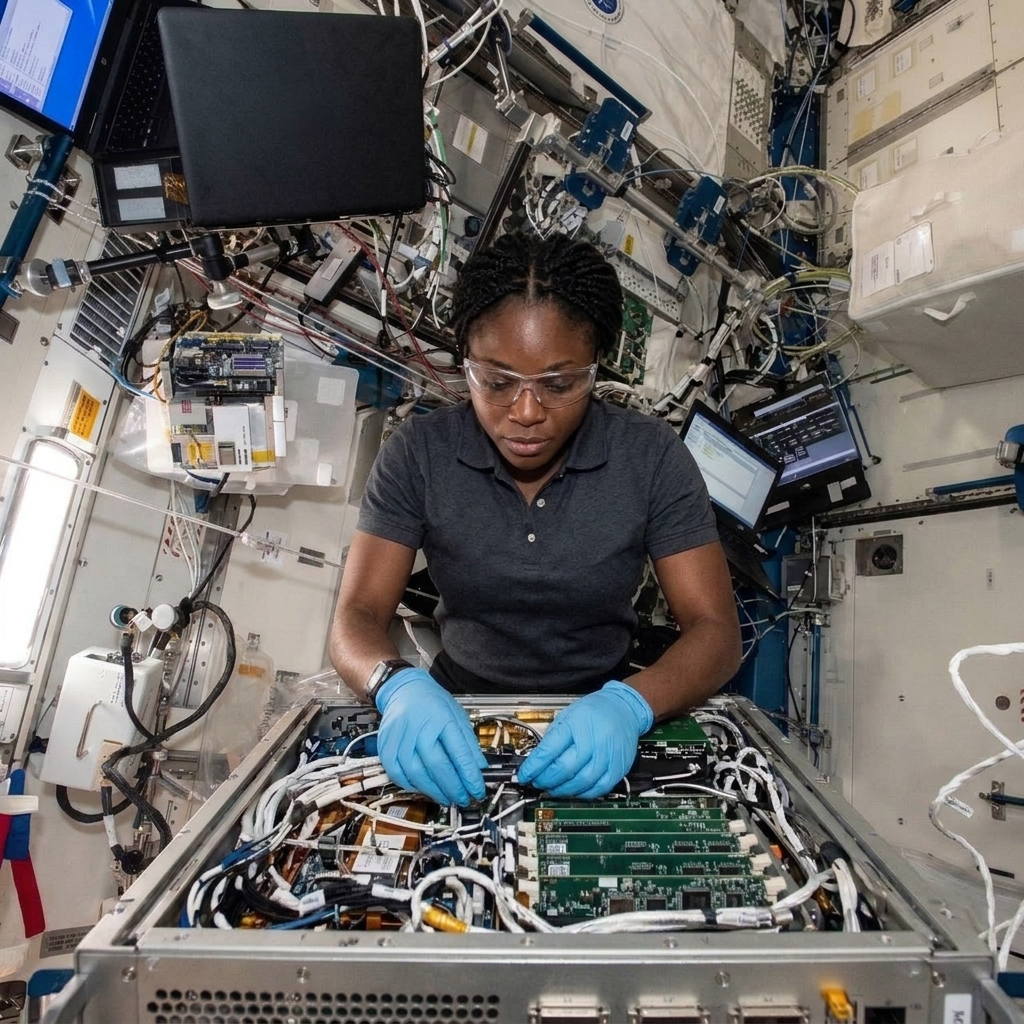
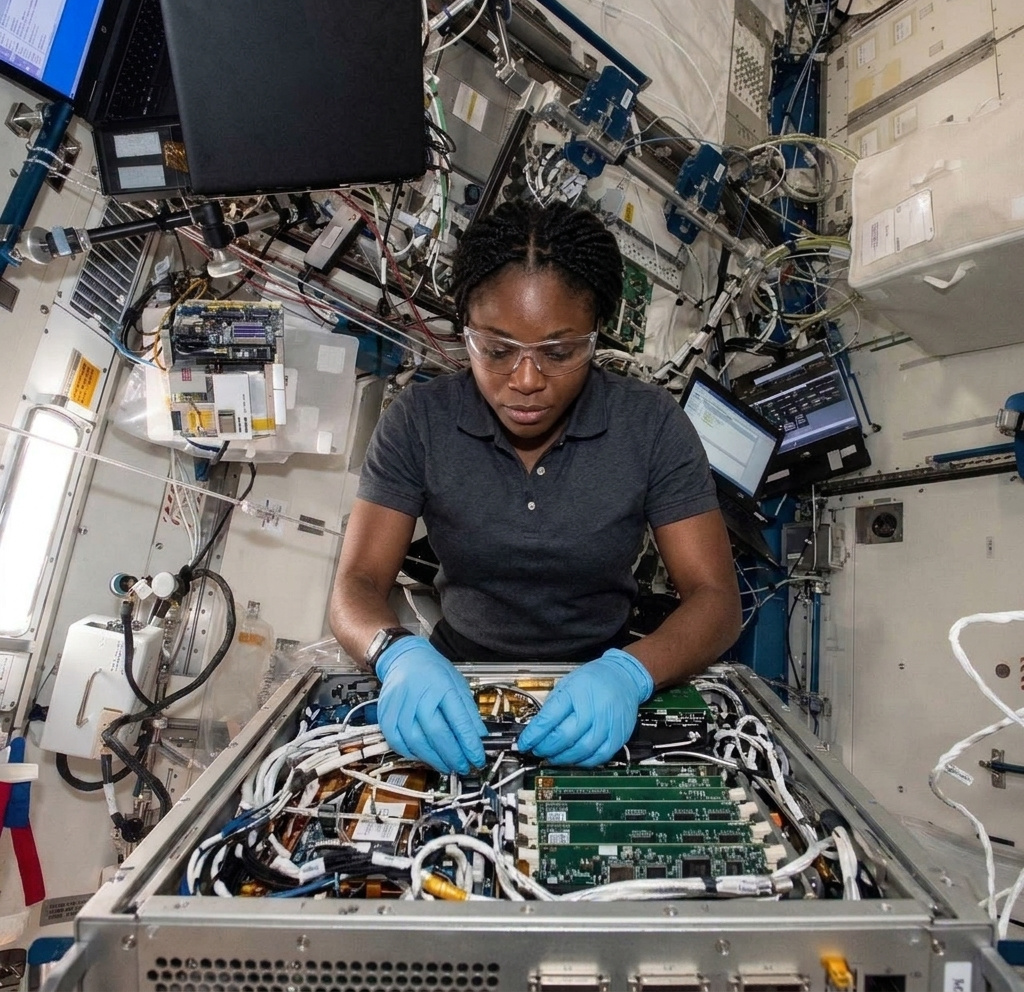
Regras de IA do Space Apps: selo visivel nas imagens de IA e emblema parecido com o da NASA removido
- Retratos: selo fixo 'Gerada por IA' / 'AI-generated'; cena 3D: 'Texturas por IA' / 'AI textures'.

- cmd_engineer.jpg: 32 px do topo cortados (emblema parecido com o logo da NASA); metadados e C2PA preservados.

diff --git a/src/app/components/ImageInfoBadge.tsx b/src/app/components/ImageInfoBadge.tsx
@@ -18,6 +18,7 @@ export function ImageInfoBadge({
   className = 'bottom-2 left-2',
   align = 'left',
   tooltipMaxWidth = 'max-w-[15rem]',
+  label,
 }: {
   text: string;
   kind?: 'info' | 'ai';
@@ -30,6 +31,12 @@ export function ImageInfoBadge({
    * relativa ao container (cqw) para o texto quebrar e nao ser cortado.
    */
   tooltipMaxWidth?: string;
+  /**
+   * Texto curto SEMPRE visivel ao lado do icone (ex.: "Gerada por IA"). E a
+   * marca d'agua visivel que o Space Apps exige em imagem feita com IA; o texto
+   * completo continua no balao ao tocar.
+   */
+  label?: string;
 }): JSX.Element {
   const [open, setOpen] = useState(false);
   const toggle = (e: MouseEvent | KeyboardEvent): void => {
@@ -51,9 +58,14 @@ export function ImageInfoBadge({
         onPointerDown={stop}
         onKeyDown={(e) => { if (e.key === 'Enter' || e.key === ' ') toggle(e); }}
         onBlur={() => { setOpen(false); }}
-        className="grid h-6 w-6 cursor-pointer place-items-center rounded-full bg-black/30 text-white/80 opacity-60 backdrop-blur-sm transition-opacity hover:opacity-100 focus-visible:opacity-100 focus-visible:outline focus-visible:outline-2 focus-visible:outline-sky-300"
+        className={`cursor-pointer backdrop-blur-sm transition-opacity hover:opacity-100 focus-visible:opacity-100 focus-visible:outline focus-visible:outline-2 focus-visible:outline-sky-300 ${
+          label === undefined
+            ? 'grid h-6 w-6 place-items-center rounded-full bg-black/30 text-white/80 opacity-60'
+            : 'inline-flex h-6 items-center gap-1 whitespace-nowrap rounded-full bg-black/65 px-2 text-[10px] font-extrabold uppercase tracking-wide text-white'
+        }`}
       >
         <Icon size={12} aria-hidden />
+        {label !== undefined ? <span aria-hidden>{label}</span> : null}
       </span>
       {open ? (
         <span

diff --git a/src/app/i18n/ui.ts b/src/app/i18n/ui.ts
@@ -501,6 +501,8 @@ export const UI_EN: Dict = {
 
   // ----- credito visivel nas fotos reais das cartas -----
   'cardArt.aiFictional': 'AI-generated image · fictional character',
+  'cardArt.aiShort': 'AI-generated',
+  'scene.aiTexturesShort': 'AI textures',
   'rotate.title': 'Turn your phone upright',
   'rotate.body': 'On phones, HEAD X is played in portrait mode.',
   'cardArt.imageCredit': 'Image: {credit}',
@@ -992,6 +994,8 @@ export const UI_PT: Dict = {
 
   // ----- credito visivel nas fotos reais das cartas -----
   'cardArt.aiFictional': 'Imagem gerada por IA · personagem fictício',
+  'cardArt.aiShort': 'Gerada por IA',
+  'scene.aiTexturesShort': 'Texturas por IA',
   'rotate.title': 'Gire o celular',
   'rotate.body': 'No celular, o HEAD X é jogado na vertical.',
   'cardArt.imageCredit': 'Imagem: {credit}',

diff --git a/src/app/components/AiTexturesBadge.tsx b/src/app/components/AiTexturesBadge.tsx
@@ -10,5 +10,6 @@ import { ImageInfoBadge } from './ImageInfoBadge.js';
  */
 export function AiTexturesBadge({ className = 'bottom-2 left-2' }: { className?: string }): JSX.Element {
   const t = useT();
-  return <ImageInfoBadge kind="ai" text={t('scene.aiTextures')} className={className} align="left" />;
+  // Selo sempre visivel ("Texturas por IA"): marca d'agua exigida pelo Space Apps.
+  return <ImageInfoBadge kind="ai" text={t('scene.aiTextures')} label={t('scene.aiTexturesShort')} className={className} align="left" />;
 }

diff --git a/src/app/components/CardArtwork.tsx b/src/app/components/CardArtwork.tsx
@@ -229,7 +229,9 @@ export function NasaCardPhoto({
           {/* O oval da janela corta o que passa da borda (overflow-hidden): o
               balao fica com no maximo 60% da largura da janela e quebra linha. */}
           <ImageInfoBadge
+            kind="ai"
             text={t('cardArt.aiFictional')}
+            label={t('cardArt.aiShort')}
             className="bottom-[14%] right-[17%]"
             align="right"
             tooltipMaxWidth="max-w-[60cqw]"

diff --git a/docs/ASSETS.md b/docs/ASSETS.md
@@ -48,7 +48,7 @@ metadata; for the others we list what the image itself shows and leave the exact
 
 | File | What it is | AI? | Watermark | Used in |
 |---|---|---|---|---|
-| `public/cards/commanders/cmd_engineer.jpg`, `cmd_medic.jpg`, `cmd_geologist.jpg`, `cmd_botanist.jpg` | Commander portraits: **fictional people**, one scene per specialty (station electronics, flight medicine, field geology, space greenhouse) | **Yes**. Each file carries a **Google C2PA manifest** ("Created by Google Generative AI", `digitalSourceType` = `trainedAlgorithmicMedia`) and a SynthID watermark; files are kept byte-for-byte as generated, so the manifest still validates. The manifest also records an input image being opened, and the scenes match the NASA photos used before (`iss065e241981`, `iss074e0316047`, `jsc2019e054994`, `iss059e035668`); `TODO(team)`: confirm they were the reference and the tool name | SynthID (invisible) + visible text: an ⓘ icon on the card shows "AI-generated image · fictional character", and the commander list shows the same line | Commander cards and commander list (`CardArtwork.tsx`, `Loadout.tsx`) |
+| `public/cards/commanders/cmd_engineer.jpg`, `cmd_medic.jpg`, `cmd_geologist.jpg`, `cmd_botanist.jpg` | Commander portraits: **fictional people**, one scene per specialty (station electronics, flight medicine, field geology, space greenhouse) | **Yes**. Each file carries a **Google C2PA manifest** ("Created by Google Generative AI", `digitalSourceType` = `trainedAlgorithmicMedia`) and a SynthID watermark; files are kept byte-for-byte as generated, so the manifest still validates, except `cmd_engineer.jpg`: its top 32 px were cropped (1024×992) to remove a round emblem that looked like the NASA insignia (the Space Apps rules forbid NASA branding in AI content); its metadata, C2PA manifest included, was copied into the new file. The manifest also records an input image being opened, and the scenes match the NASA photos used before (`iss065e241981`, `iss074e0316047`, `jsc2019e054994`, `iss059e035668`); `TODO(team)`: confirm they were the reference and the tool name | SynthID (invisible) + **visible watermark**: an always-visible "AI-generated" label on every portrait (the full line "AI-generated image · fictional character" appears on tap), and the same line as text in the commander list | Commander cards and commander list (`CardArtwork.tsx`, `Loadout.tsx`) |
 | `public/logo.ico`, `public/icon-192.png`, `public/icon-512.png`, `public/icon-maskable.png` | App icon: HEAD X mission logo (triangle with "HEAD") | **Partly** (per the team: made partly with AI). `TODO(team)`: tool name | The PNGs were rendered from the 256 px PNG inside `logo.ico` (maskable: logo at 72% on white, inside the safe zone) | Browser tab (favicon = `logo.ico`), installed PWA icon |
 
 ### 1.4 Team-made art
@@ -75,7 +75,7 @@ I/O v4.5.47" in each file).
 | `public/models/base.glb` | Lunar base model (domes, modules) | Made in Blender by the team. `TODO(team)`: author name | `TODO(team)` (MIT if team-made) | `TODO(team)` |
 | `public/models/rover.glb` | Rover model | Made in Blender. `TODO(team)`: author / source | `TODO(team)` | `TODO(team)` |
 | `public/models/solar.glb` | Solar panel model | Made in Blender. `TODO(team)`: author / source | `TODO(team)` | `TODO(team)` |
-| `public/textures/DoorTexture.jpg` | Door texture | File carries a **Google C2PA manifest** with `digitalSourceType` = `trainedAlgorithmicMedia` and a SynthID mark | Google generative AI terms (`TODO(team)`: tool name) | **Yes** (proven by metadata). A small ✦ icon in the corner of every 3D scene shows "Some textures made with AI" when tapped (`src/app/components/AiTexturesBadge.tsx`) |
+| `public/textures/DoorTexture.jpg` | Door texture | File carries a **Google C2PA manifest** with `digitalSourceType` = `trainedAlgorithmicMedia` and a SynthID mark | Google generative AI terms (`TODO(team)`: tool name) | **Yes** (proven by metadata). **Visible watermark:** an always-visible "AI textures" label in the corner of every 3D scene; tapping it shows "Some textures made with AI" (`src/app/components/AiTexturesBadge.tsx`) |
 | `public/textures/solarPanel.jpg` | Solar panel texture | Same Google C2PA manifest (`trainedAlgorithmicMedia`, SynthID) | Same | **Yes** (proven by metadata). Same icon |
 | `public/textures/world.topo.200401.3x5400x2700.jpg` | Earth texture (resized to 2048×1024; the file name keeps NASA's original name) | File name matches NASA's **Blue Marble Next Generation** (January 2004, with topography), NASA Earth Observatory / Visible Earth. `TODO(team)`: confirm download page | NASA, public domain | No |
 | `public/textures/2k_moon.jpg` | Moon surface texture | Name and size (2048×1024) match the **Solar System Scope** texture set, which is based on NASA data. `TODO(team)`: confirm | Solar System Scope textures are CC BY 4.0 (credit required) | No |

diff --git a/docs/SUBMISSAO.md b/docs/SUBMISSAO.md
@@ -190,17 +190,12 @@ Notas:
 O formulário diz: conteúdo gerado por SI **não pode conter marcas da NASA** (logos, bandeiras,
 identificadores de missão), e **imagens geradas por SI precisam de marca d'água visível**.
 
-1. **Retrato da engenheira (`public/cards/commanders/cmd_engineer.jpg`).** No alto, perto do centro, a IA
-   desenhou um emblema redondo azul e branco que parece o logo da NASA. Na carta ele cai na borda de cima
-   do oval. Corrigir antes do envio: gerar a imagem de novo sem o emblema, ou cortá-la.
-2. **Marca d'água visível.**
-   - Hoje os retratos mostram só um ícone ⓘ, e o texto "AI-generated image" aparece ao tocar. Na lista de
-     comandantes o aviso é texto visível.
-   - As texturas 3D mostram um ✦, com o texto ao tocar.
-   - Para cumprir à risca, o aviso deve ficar sempre visível sobre a imagem, por exemplo um selo
-     pequeno "AI" fixo no canto.
-   - O ícone do app (parcialmente IA) não comporta marca d'água; a declaração fica no texto e nos
-     créditos.
+1. **Retrato da engenheira — corrigido.** A IA tinha desenhado no topo um emblema parecido com o logo da
+   NASA. Os 32 px de cima foram cortados; os outros 3 retratos e as 2 texturas foram conferidos e não têm
+   marca da NASA.
+2. **Marca d'água visível — corrigido.** Todo retrato mostra o selo fixo "Gerada por IA" / "AI-generated",
+   e toda cena 3D mostra "Texturas por IA" / "AI textures". O ícone do app (parcialmente IA) não comporta
+   marca d'água; a declaração fica no texto e nos créditos.
 3. **Demo:** até 30 s ou até 7 slides, link público, e legenda em inglês se a fala for em português.
 4. **Equipe:** todos os membros precisam estar na aba *Members* e inscritos no evento de Uberlândia
    (máximo de 6 pessoas).

diff --git a/README.md b/README.md
@@ -74,11 +74,12 @@ The NASA Space Apps guide asks teams to declare AI ("SI") use. What we can state
   - the **background music**: declared here, on the Credits screen, and in the MP3 metadata
     (`COMM` and `TXXX:AI_GENERATED=true`);
   - the **four commander portraits** (fictional people, no real astronauts): each file carries Google
-    C2PA metadata ("Created by Google Generative AI") and a SynthID watermark, and the game shows
-    "AI-generated image · fictional character" on the card and in the commander list.
+    C2PA metadata ("Created by Google Generative AI") and a SynthID watermark, and every portrait shows
+    an always-visible "AI-generated" label (the full line "AI-generated image · fictional character"
+    appears on tap and in the commander list).
   - two **3D textures** (door and solar panel of the 3D base): their files carry Google C2PA metadata
-    marking them as AI-generated; every 3D scene has a small ✦ icon in the corner that shows
-    "Some textures made with AI" when tapped, so the note stays visible without covering the scene.
+    marking them as AI-generated; every 3D scene shows an always-visible "AI textures" label in the
+    corner (tap it for "Some textures made with AI").
   - The music was generated with **Moreka.ai**.
   - The **app icon** (HEAD X logo) was made **partly with AI**; declared here, on the Credits screen and
     in `docs/ASSETS.md`.
